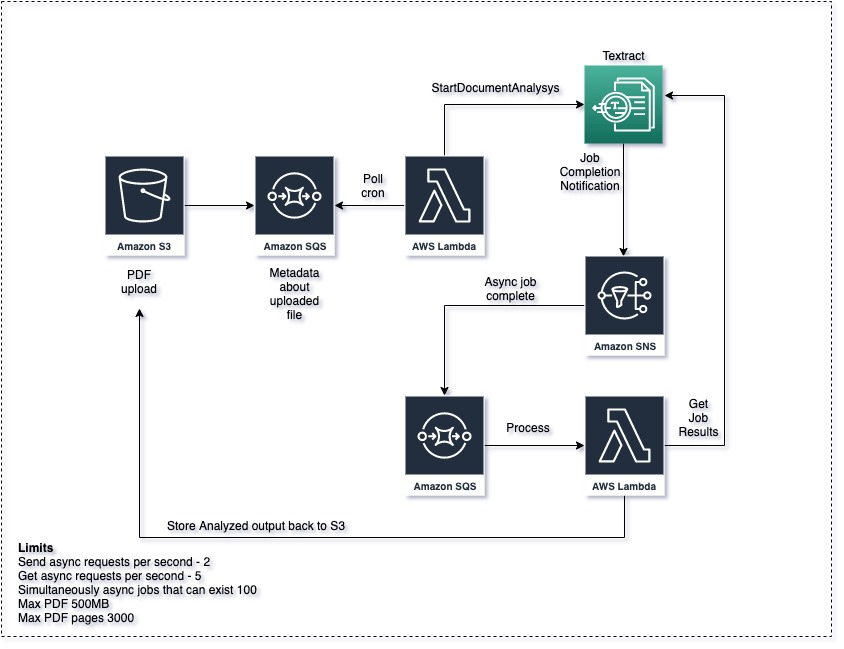
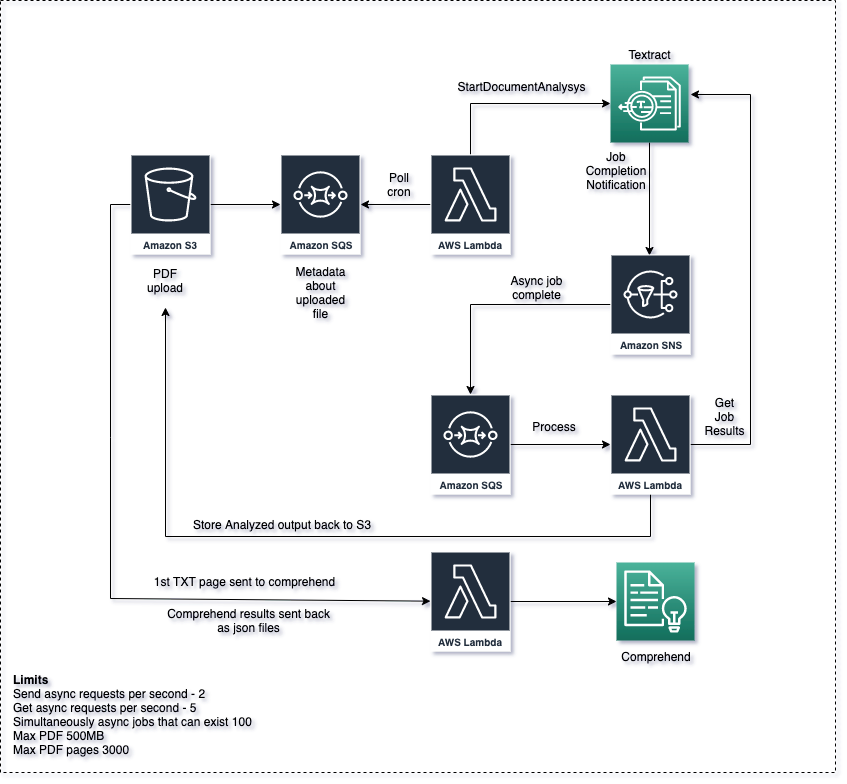
Feat: add comprehend processing logic.

diff --git a/terraform/src/trp.py b/terraform/src/trp.py
@@ -2,7 +2,6 @@ class BoundingBox:
     """
 
     """
-
     def __init__(self, width, height, left, top):
         self._width = width
         self._height = height
@@ -49,7 +48,6 @@ class Polygon:
     """
 
     """
-
     def __init__(self, x, y):
         self._x = x
         self._y = y
@@ -78,7 +76,6 @@ class Geometry:
     """
 
     """
-
     def __init__(self, geometry):
         boundingBox = geometry["BoundingBox"]
         polygon = geometry["Polygon"]
@@ -115,7 +112,6 @@ class Word:
     """
 
     """
-
     def __init__(self, block, blockMap):
         self._block = block
         self._confidence = block['Confidence']
@@ -173,7 +169,6 @@ class Line:
     """
 
     """
-
     def __init__(self, block, blockMap):
 
         self._block = block
@@ -254,7 +249,6 @@ class SelectionElement:
     """
 
     """
-
     def __init__(self, block, blockMap):
         self._confidence = block['Confidence']
         self._geometry = Geometry(block['Geometry'])
@@ -298,7 +292,6 @@ class FieldKey:
     """
 
     """
-
     def __init__(self, block, children, blockMap):
         self._block = block
         self._confidence = block['Confidence']
@@ -375,7 +368,6 @@ class FieldValue:
     """
 
     """
-
     def __init__(self, block, children, blockMap):
         self._block = block
         self._confidence = block['Confidence']
@@ -456,7 +448,6 @@ class Field:
     """
 
     """
-
     def __init__(self, block, blockMap):
         self._key = None
         self._value = None
@@ -505,7 +496,6 @@ class Form:
     """
 
     """
-
     def __init__(self):
         self._fields = []
         self._fieldsMap = {}
@@ -561,7 +551,6 @@ class Cell:
     """
 
     """
-
     def __init__(self, block, blockMap):
         self._block = block
         self._confidence = block['Confidence']
@@ -675,7 +664,6 @@ class Row:
     """
 
     """
-
     def __init__(self):
         self._cells = []
 
@@ -698,7 +686,6 @@ class Table:
     """
 
     """
-
     def __init__(self, block, blockMap):
 
         self._block = block
@@ -777,7 +764,6 @@ class Page:
     """
 
     """
-
     def __init__(self, blocks, blockMap):
         self._blocks = blocks
         self._text = ""
@@ -928,7 +914,6 @@ class Document:
     """
     Document class
     """
-
     def __init__(self, responsePages):
 
         if not isinstance(responsePages, list):

diff --git a/terraform/src/comprehendprocess.py b/terraform/src/comprehendprocess.py
@@ -1,0 +1,54 @@
+"""Lambda handler for job comprehend process."""
+import json
+import logging
+
+from helper import AwsHelper, S3Helper
+
+try:
+    from urllib.parse import unquote_plus
+except ImportError:
+    from urllib import unquote_plus
+
+logging.getLogger().setLevel(logging.INFO)
+
+
+def lambda_handler(event, context):
+    """Handler entrypoint."""
+    logging.debug("Event: %s", event)
+    logging.debug("Context: %s", context)
+    bucket_name = event['Records'][0]['s3']['bucket']['name']
+    object_name = event['Records'][0]['s3']['object']['key']
+    logging.info("Bucket name %s and object name: %s", bucket_name, object_name)
+
+    comprehend = AwsHelper.get_client("comprehend")
+    s3_resource = AwsHelper.get_resource("s3")
+    s3_resource.Bucket(bucket_name).download_file(Key=object_name, Filename='/tmp/{}')
+    text_values = []
+    text_values_entity = dict()
+
+    with open('/tmp/{}', 'rb') as document:
+        text_file_str = document.read().decode(encoding='UTF-8')
+
+    logging.info("Starting detect_key_phrases job.")
+    keyphrase_response = comprehend.detect_key_phrases(Text=text_file_str, LanguageCode='en')
+    key_phrase_list = keyphrase_response.get("KeyPhrases")
+    for key in key_phrase_list:
+        text_values.append(key.get("Text"))
+
+    S3Helper.write_to_s3(
+        content=json.dumps(text_values),
+        bucket_name=bucket_name,
+        s3_file_name="{}.{}".format(object_name, ".keyPhrasesComprehend.json"),
+    )
+
+    logging.info("Starting detect_entities job.")
+    detect_entity = comprehend.detect_entities(Text=text_file_str, LanguageCode='en')
+    entity_list = detect_entity.get("Entities")
+    for key in entity_list:
+        text_values_entity.update([(key.get("Type").strip('\t\n\r'), key.get("Text").strip('\t\n\r'))])
+
+    S3Helper.write_to_s3(
+        content=json.dumps(text_values_entity),
+        bucket_name=bucket_name,
+        s3_file_name="{}.{}".format(object_name, ".entitiesComprehend.json"),
+    )

diff --git a/terraform/src/datastore.py b/terraform/src/datastore.py
@@ -10,7 +10,6 @@ class DocumentStore:
     """
     Document Store
     """
-
     def __init__(self, documentsTableName, outputTableName):
         self._documentsTableName = documentsTableName
         self._outputTableName = outputTableName
@@ -89,14 +88,14 @@ class DocumentStore:
 
         try:
             table.update_item(
-                Key={
-                    'documentId': documentId},
-                UpdateExpression='SET documentStatus= :documentstatusValue, documentCompletedOn = :documentCompletedOnValue',
+                Key={'documentId': documentId},
+                UpdateExpression=
+                'SET documentStatus= :documentstatusValue, documentCompletedOn = :documentCompletedOnValue',
                 ConditionExpression='attribute_exists(documentId)',
                 ExpressionAttributeValues={
                     ':documentstatusValue': "SUCCEEDED",
-                    ':documentCompletedOnValue': str(
-                        datetime.datetime.utcnow())})
+                    ':documentCompletedOnValue': str(datetime.datetime.utcnow())
+                })
         except ClientError as e:
             if e.response['Error']['Code'] == "ConditionalCheckFailedException":
                 print(e.response['Error']['Message'])
@@ -117,7 +116,7 @@ class DocumentStore:
         ddbGetItemResponse = dynamodb.get_item(Key={'documentId': {
             'S': documentId
         }},
-            TableName=self._documentsTableName)
+                                               TableName=self._documentsTableName)
 
         itemToReturn = None
 

diff --git a/terraform/src/og.py b/terraform/src/og.py
@@ -8,7 +8,6 @@ class OutputGenerator:
     """
     Output generator
     """
-
     def __init__(self, document_id, response, bucket_name, object_name, forms, tables, ddb=None):
         self.document_id = document_id
         self.response = response

diff --git a/terraform/README.md b/terraform/README.md
@@ -11,6 +11,9 @@ TODO: There are multiple todo items here, I will be working on them next. Just w
 How to install the infrastructure via terraform
 
 ####Initialize
+Assumes you have default credentials in default location.
+If you store credentials in custom location change the path below.
+If you have custom profile add extra argument `-e AWS_PROFILE=custom`.
 ```shell script
 cd terraform/
 docker run --rm -it \
